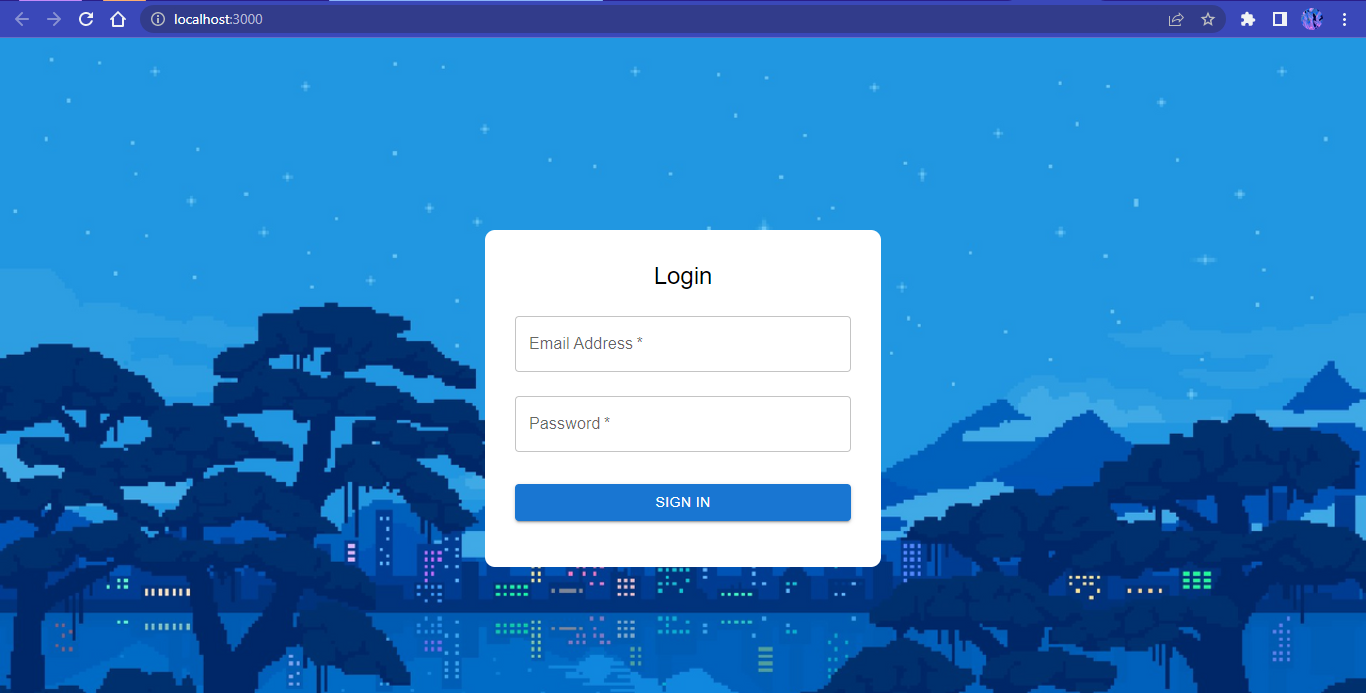
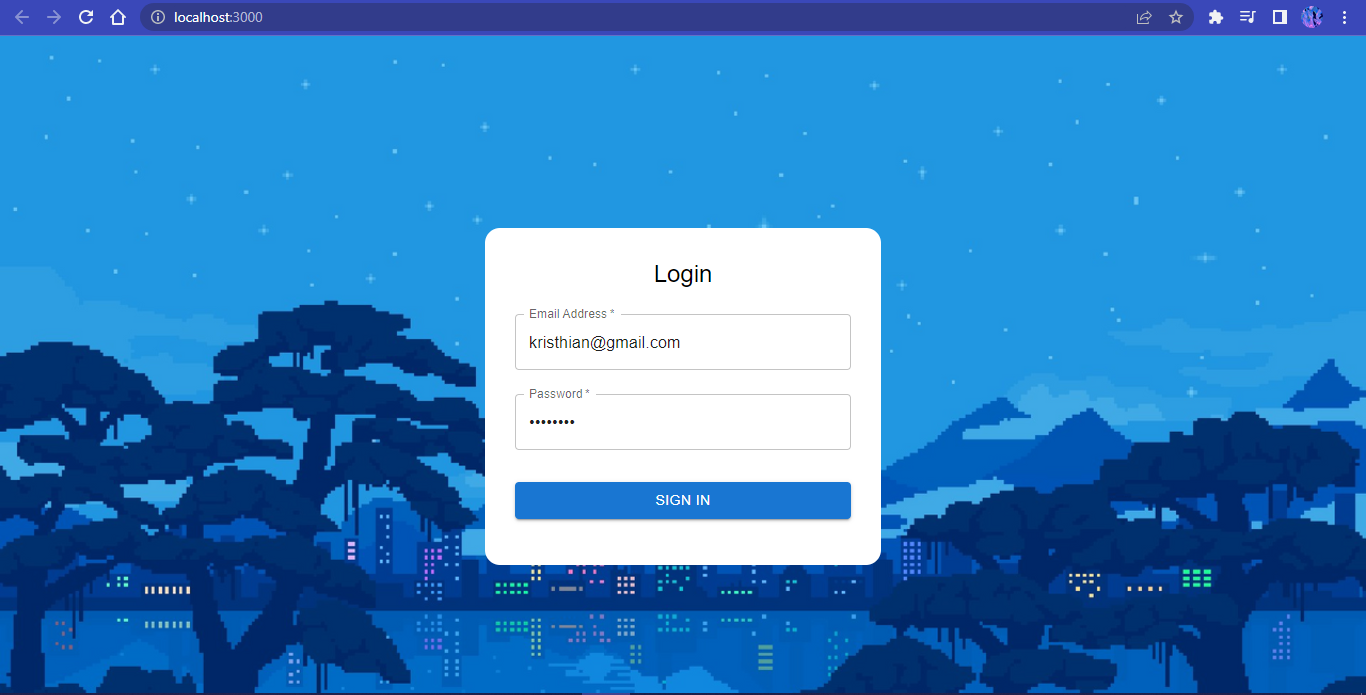
Post credentials and get the LoginDto

diff --git a/components/login.js b/components/login.js
@@ -1,10 +1,44 @@
 import { Box, TextField, Button, CssBaseline, Typography, Avatar } from '@mui/material'
 import { Container } from '@mui/system'
 import { createTheme, ThemeProvider } from '@mui/material/styles';
+import { useState } from 'react';
 
 const theme = createTheme();
 
-const Login = () => {
+export default function Login (){
+    const [formData, setFormData] = useState({
+        email: "",
+        password: ""
+    });
+
+    function handleChange(event){
+        const {name, value, type} = event.target;
+        setFormData(prevFormData => ({
+            ...prevFormData,
+            [name] : value
+        }));
+    }
+
+    async function handleSubmit(event){
+        event.preventDefault();
+        console.log("Mando la informacion del formulario");
+        console.log(formData);
+        try{
+            var response = await fetch('http://localhost:8080/v1/auth', {
+                method: 'POST',
+                headers: {
+                    'Content-Type': 'application/json',
+                    'Access-Control-Allow-Origin': '*'
+                },
+                body: JSON.stringify(formData)});
+            var data = await response.json();
+            console.log(data);
+        }catch(e){
+            console.log(e.message);
+        }
+        
+    }
+
     return (
         <ThemeProvider theme={theme}>
             <Container component="main" maxWidth="xs">
@@ -16,7 +50,7 @@ const Login = () => {
                     flexDirection: 'column',
                     alignItems: 'center',
                     backgroundColor: 'white',
-                    borderRadius: '10px',
+                    borderRadius: '15px',
                     padding: '30px'
                 }}
                 >
@@ -25,7 +59,7 @@ const Login = () => {
                     }}>
                         Login
                     </Typography>
-                    <Box component="form" noValidate sx={{ mt: 1 }}>
+                    <Box component="form" noValidate sx={{ mt: 1 }} onSubmit={handleSubmit}>
                         <TextField
                         margin="normal"
                         required
@@ -35,6 +69,9 @@ const Login = () => {
                         name="email"
                         autoComplete="email"
                         autoFocus
+                        type="email"
+                        onChange={handleChange}
+                        value={formData.email}
                         />
                         <TextField
                         margin="normal"
@@ -45,6 +82,8 @@ const Login = () => {
                         type="password"
                         id="password"
                         autoComplete="current-password"
+                        onChange={handleChange}
+                        value={formData.password}
                         />
                         <Button
                         type="submit"
@@ -61,4 +100,3 @@ const Login = () => {
     )
 }
 
-export default Login

diff --git a/README.md b/README.md
@@ -1,6 +1,6 @@
 ## Getting Started
 
-First, install the packages and run the development server:
+First, install the packages and then run the development server:
 
 ```bash
 npm install
@@ -11,12 +11,18 @@ Open [http://localhost:3000](http://localhost:3000) with your browser to see the
 
 ## Login page
 
-This login send a post request to the /auth/v1 endpoint of the user service
+This login component send a POST request to the /auth/v1 endpoint of the user service
 
 ![Login](img/login.png)
+
+That POST request gets as response a JSON object that contains the access token and his expiration date
+
+![Login Token](img/login-token.png)
 
 ## Learn More
 
 To learn more about Next.js, take a look at the following resources:
 
-- [Next.js Documentation](https://nextjs.org/docs) - learn about Next.js features and API.
+- [Next.js Documentation](https://nextjs.org/docs) - Learn about Next.js features and API.
+
+- [CORS Policy configuration](https://spring.io/guides/gs/rest-service-cors/) - Learn about the configuration of CORS Policy in spring boot MVC
